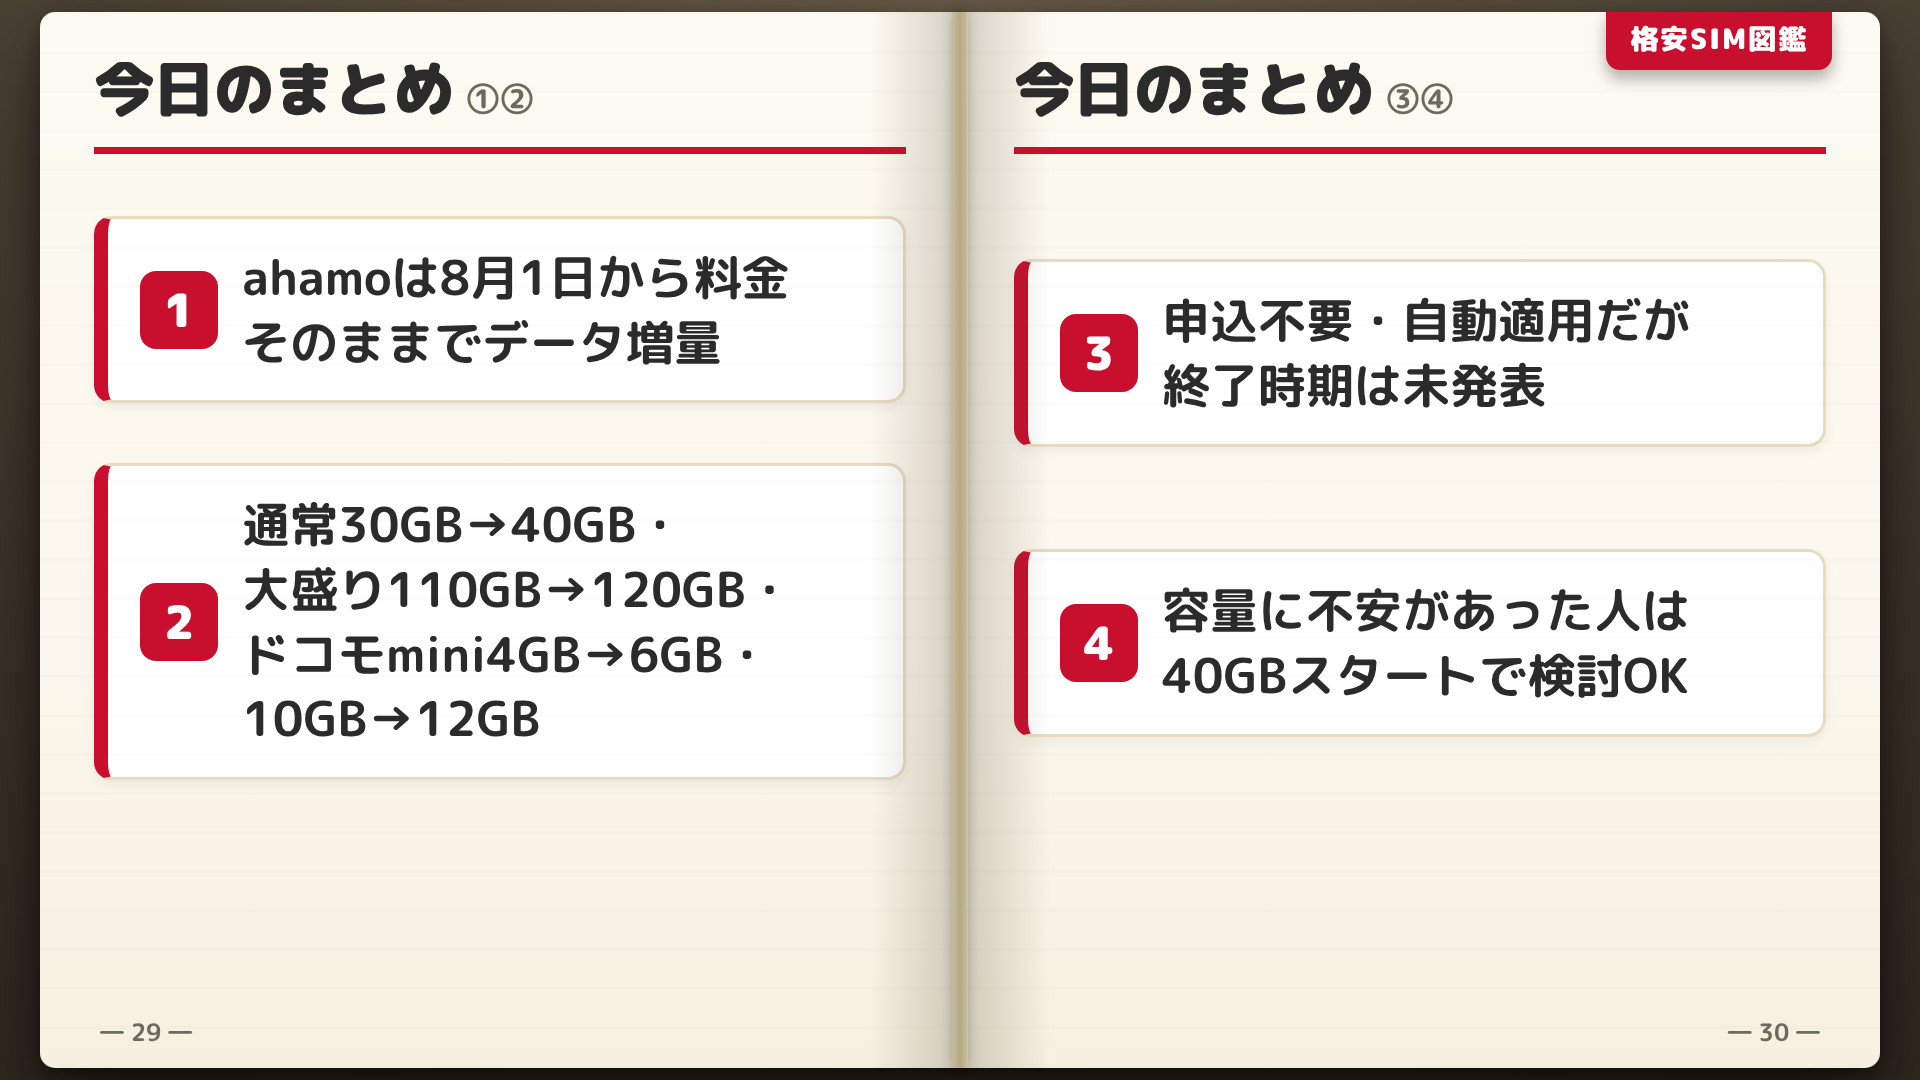
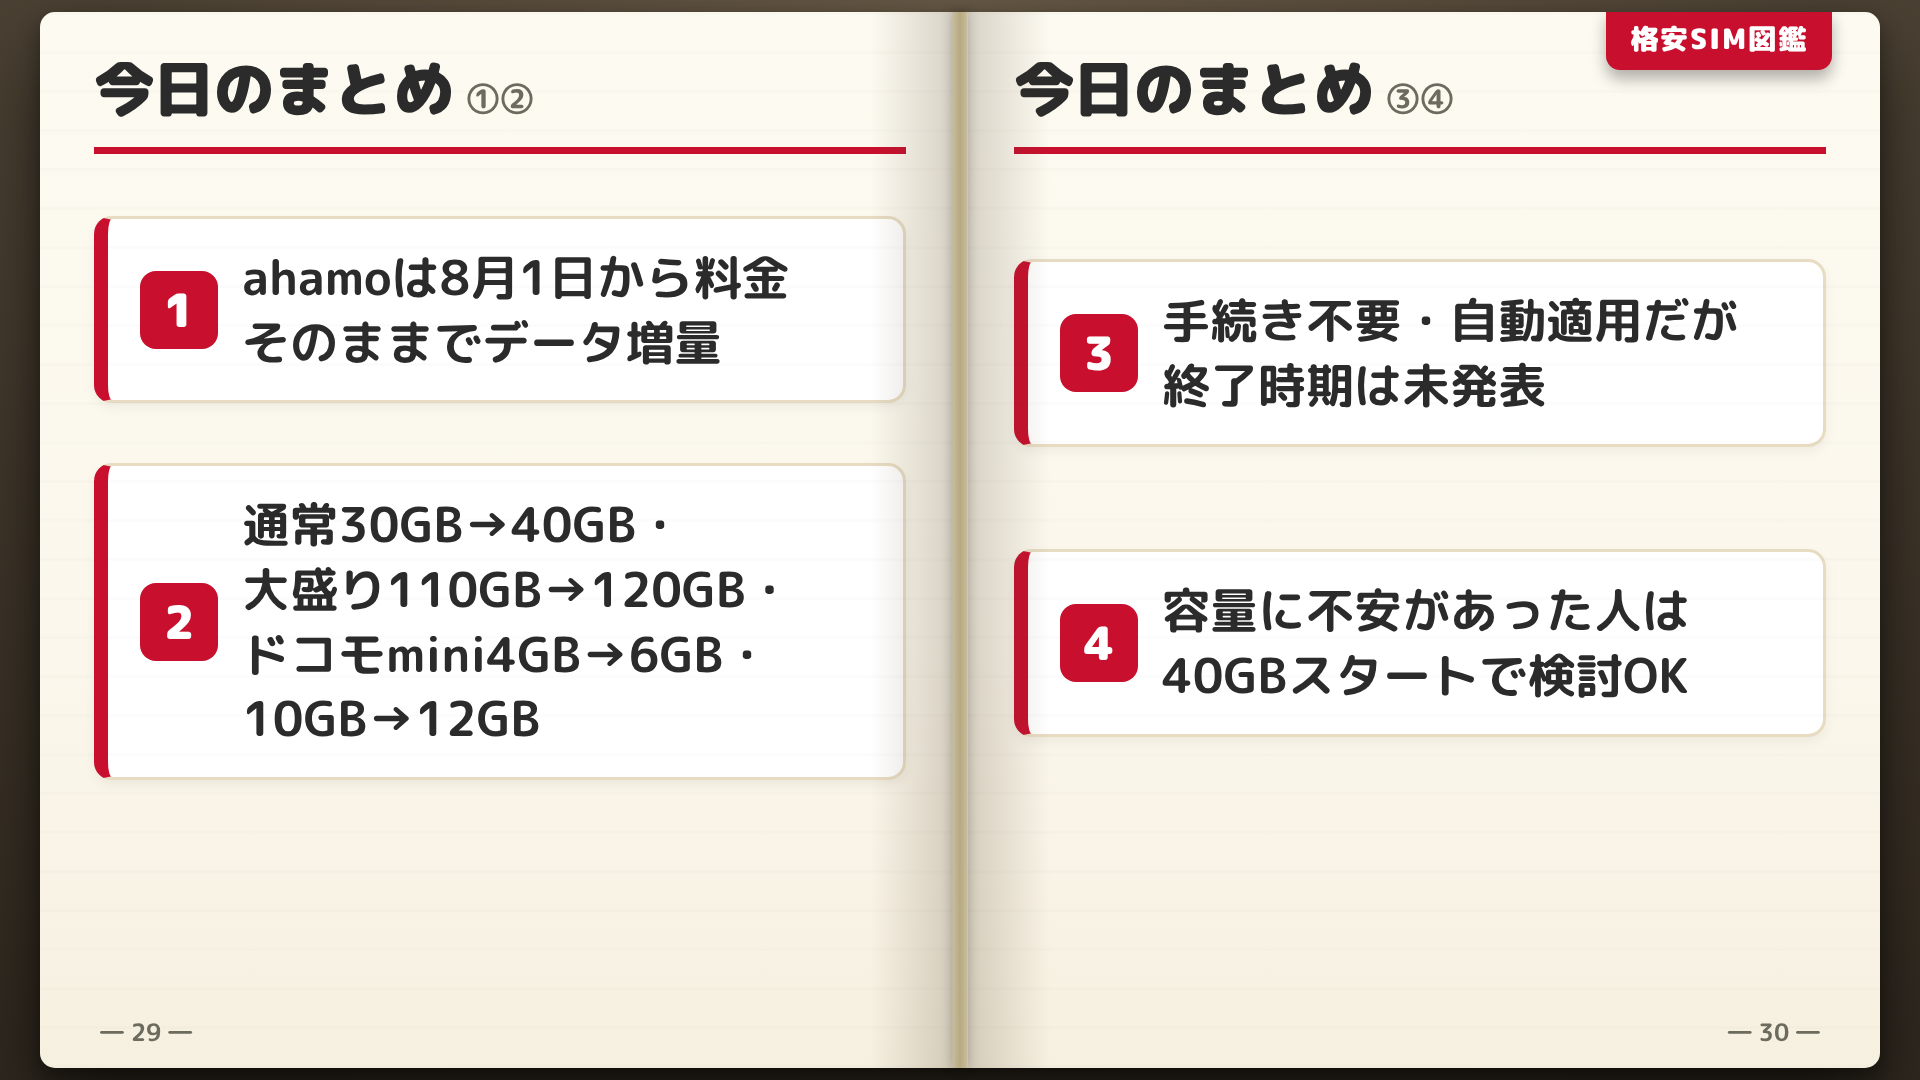
台本改修によるスライドの改修

Changed region(s): [[0.5938, 0.275, 0.9062, 0.3361]]

diff --git a/slides.html b/slides.html
@@ -67,7 +67,7 @@
   <div class="std-copy">
     <div class="std-kicker">月額料金はそのまま！</div>
     <h1><span>10GB</span> 増量</h1>
-    <div class="std-chips"><b>申込不要</b><b>自動適用</b><b>対象者は手続きなし</b></div>
+    <div class="std-chips"><b>手続き不要</b><b>自動適用</b><b>今の利用者はまるっと対象</b></div>
   </div>
   <img class="std-hero" style="margin-top: 100px; height: 700px;" src="public/images/irasutoya/bikkuri_me_tobideru_man.png" alt="速報に驚く人">
 </div>
@@ -76,7 +76,7 @@
   <div class="std-rays"></div><div class="std-ribbon">速報</div>
   <img class="std-brand" src="public/images/logo/Ahamo_logo.png" alt="ahamo">
   <div class="std-copy">
-    <div class="std-kicker">申込不要で8月から</div>
+    <div class="std-kicker">手続き不要で8月から</div>
     <h1><span>30GB</span><i class="fa-solid fa-arrow-right"></i><strong>40GB</strong></h1>
     <div class="std-subtitle">月額そのままで、何が変わった？</div>
   </div>
@@ -94,7 +94,7 @@
   <img class="std-hero" src="public/images/irasutoya/smartphone04_laugh.png" alt="スマートフォンを使う人">
 </div>
 <!-- Slide ID: 4 -->
-<div class="slide-container" style="--brand:#C8102E;--brand-deep:#9a0c23;--brand-soft:#fde3e7"><div class="book"><div class="spine"></div><div class="page left"><div class="page-head">格安SIM図鑑 もくじ</div><ol class="agenda"><li><span class="num">1</span>何がどれだけ増えたの？</li><li><span class="num">2</span>なぜ今このタイミングで増量？</li><li><span class="num">3</span>申込不要・自動適用の注意点</li><li><span class="num">4</span>他の格安SIMと比べてどう見える？</li></ol></div><div class="page right"><span class="index-tab">格安SIM図鑑</span><div class="page-head">この動画でわかること</div><ul class="benefits"><li><span class="check">✓</span>8月からahamoがどう変わったか分かる</li><li><span class="check">✓</span>注意点を知って安心して使い続けられる</li></ul><div class="emph agenda-answer"><span class="em">結論</span><br>今の利用者は何もしなくてOK！</div></div></div></div>
+<div class="slide-container" style="--brand:#C8102E;--brand-deep:#9a0c23;--brand-soft:#fde3e7"><div class="book"><div class="spine"></div><div class="page left"><div class="page-head">格安SIM図鑑 もくじ</div><ol class="agenda"><li><span class="num">1</span>何がどれだけ増えたの？</li><li><span class="num">2</span>なぜ今このタイミングで増量？</li><li><span class="num">3</span>手続き不要・自動適用の注意点</li><li><span class="num">4</span>他の格安SIMと比べてどう見える？</li></ol></div><div class="page right"><span class="index-tab">格安SIM図鑑</span><div class="page-head">この動画でわかること</div><ul class="benefits"><li><span class="check">✓</span>8月からahamoがどう変わったか分かる</li><li><span class="check">✓</span>注意点を知って安心して使い続けられる</li></ul><div class="emph agenda-answer"><span class="em">結論</span><br>今の利用者は何もしなくてOK！</div></div></div></div>
 <!-- Slide ID: 5-0 -->
 <div class="slide-container" style="--brand:#C8102E;--brand-deep:#9a0c23;--brand-soft:#fde3e7"><div class="book"><div class="spine"></div><div class="page left"><div class="divider"><div class="kicker">CHAPTER</div><div class="num">1</div><div class="seal">FILE No.01</div></div></div><div class="page right"><span class="index-tab">格安SIM図鑑</span><div class="page-body center"><div class="big-title chapter-title">何がどれだけ<br>増えたの？</div><div class="lead chapter-lead">料金据え置きで、容量アップ</div></div></div></div></div>
 <!-- Slide ID: 6 -->
@@ -118,7 +118,7 @@
 <!-- Slide ID: 11 -->
 <div class="slide-container price-note" style="--brand:#C8102E;--brand-deep:#9a0c23;--brand-soft:#fde3e7"><div class="book"><div class="spine"></div><div class="page left"><div class="page-head">背景にある価格競争</div><div class="page-body center"><div class="warn inference"><span class="ic"><i class="fa-solid fa-user-pen"></i></span><b>ここからはショウの推測</b><br>他社との価格競争も背景にあるのでは？</div><div class="lead competition-lead">30GBのままでは、近い価格帯で見劣りしていた</div><div class="bigicon competition-icon"><i class="fa-solid fa-scale-balanced"></i></div></div><span class="page-no">― 9 ―</span></div><div class="page right"><span class="index-tab">格安SIM図鑑</span><div class="page-head">近い価格帯の容量</div><div class="page-body center"><table class="sheet competition-table"><thead><tr><th>サービス</th><th>容量</th><th>月額</th></tr></thead><tbody><tr><td>日本通信SIM 合理的50GBプラン</td><td>50GB</td><td>月額2,178円</td></tr><tr><td>IIJmio（アイアイジェイミオ） ギガプラン</td><td>35GB</td><td>月額2,400円</td></tr><tr><td>mineo マイピタ</td><td>50GB</td><td>月額2,948円</td></tr><tr><td>ahamo（増量前）</td><td>30GB</td><td>月額2,970円</td></tr></tbody></table></div><span class="page-no">― 10 ―</span></div></div></div>
 <!-- Slide ID: 12-0 -->
-<div class="slide-container" style="--brand:#C8102E;--brand-deep:#9a0c23;--brand-soft:#fde3e7"><div class="book"><div class="spine"></div><div class="page left"><div class="divider"><div class="kicker">CHAPTER</div><div class="num">3</div><div class="seal">FILE No.03</div></div></div><div class="page right"><span class="index-tab">格安SIM図鑑</span><div class="page-body center"><div class="big-title chapter-title">申込不要・<br>自動適用の注意点</div><div class="lead chapter-lead">終了時期は、まだ未発表</div></div></div></div></div>
+<div class="slide-container" style="--brand:#C8102E;--brand-deep:#9a0c23;--brand-soft:#fde3e7"><div class="book"><div class="spine"></div><div class="page left"><div class="divider"><div class="kicker">CHAPTER</div><div class="num">3</div><div class="seal">FILE No.03</div></div></div><div class="page right"><span class="index-tab">格安SIM図鑑</span><div class="page-body center"><div class="big-title chapter-title">手続き不要・<br>自動適用の注意点</div><div class="lead chapter-lead">終了時期は、まだ未発表</div></div></div></div></div>
 <!-- Slide ID: 13 -->
 <div class="slide-container" style="--brand:#C8102E;--brand-deep:#9a0c23;--brand-soft:#fde3e7"><div class="book"><div class="spine"></div><div class="page left"><div class="page-head">注意点</div><div class="page-body center"><div class="campaign-name">正式名称</div><div class="lead campaign-title">正式名称は「データ増量おためしキャンペーン」</div><div class="warn end-date"><span class="ic"><i class="fa-solid fa-calendar-xmark"></i></span><span>終了時期は<strong>未発表</strong></span></div></div><span class="page-no">― 11 ―</span></div><div class="page right"><span class="index-tab">格安SIM図鑑</span><div class="page-head">今後の2つの可能性</div><div class="page-body center"><ul class="rows"><li><span class="ic"><i class="fa-solid fa-rotate-left"></i></span><div class="tx">いつか元の30GB・110GBに戻る可能性</div></li><li><span class="ic"><i class="fa-solid fa-arrow-trend-up"></i></span><div class="tx">このまま40GB・120GBが定着する可能性</div></li></ul><div class="emph both-possible">どちらも<span class="em">あり得る</span></div></div><span class="page-no">― 12 ―</span></div></div></div>
 <!-- Slide ID: 14 -->
@@ -131,7 +131,7 @@
       <div class="plan-chart"><img src="public/images/charts/ahamo.png" alt="ahamoの評価チャート"></div>
     <span class="page-no">― 15 ―</span></div><div class="page right plan-page"><span class="index-tab">格安SIM図鑑</span><div class="page-head">ahamoの料金プラン</div><div class="page-body center">
       <table class="sheet plan-sheet"><thead><tr><th>プラン</th><th>データ容量</th><th>月額料金</th></tr></thead><tbody><tr><td>ahamo</td><td>40GB</td><td class="em">2,970円</td></tr><tr><td>ahamo大盛り</td><td>120GB</td><td class="em">4,950円</td></tr></tbody></table>
-      <div class="note plan-note">容量は2026年8月1日の増量後（申込不要で自動適用）<br>どちらも5分以内の国内通話が無料で込み</div>
+      <div class="note plan-note">容量は2026年8月1日の増量後（手続き不要で自動適用）<br>どちらも5分以内の国内通話が無料で込み</div>
     </div><span class="page-no">― 16 ―</span></div></div></div>
 <!-- Slide ID: 16 -->
 <div class="slide-container" style="--brand:#C8102E;--brand-deep:#9a0c23;--brand-soft:#fde3e7"><div class="book"><div class="spine"></div><div class="page left eval-page">
@@ -199,7 +199,7 @@
 <!-- Slide ID: 24-0 -->
 <div class="slide-container" style="--brand:#C8102E;--brand-deep:#9a0c23;--brand-soft:#fde3e7"><div class="book"><div class="spine"></div><div class="page left"><div class="divider"><div class="kicker">CHAPTER</div><div class="num">5</div><div class="seal">FILE No.05</div></div></div><div class="page right"><span class="index-tab">格安SIM図鑑</span><div class="page-body center"><div class="big-title chapter-title">まとめ</div><div class="lead chapter-lead">増量のポイントを最終確認</div></div></div></div></div>
 <!-- Slide ID: 25 -->
-<div class="slide-container" style="--brand:#C8102E;--brand-deep:#9a0c23;--brand-soft:#fde3e7"><div class="book"><div class="spine"></div><div class="page left"><div class="page-head">今日のまとめ<small>①②</small></div><div class="page-body"><ul class="rows"><li><span class="badge">1</span><div class="tx">ahamoは8月1日から料金そのままでデータ増量</div></li><li><span class="badge">2</span><div class="tx">通常30GB→40GB・大盛り110GB→120GB・ドコモmini4GB→6GB・10GB→12GB</div></li></ul></div><span class="page-no">― 29 ―</span></div><div class="page right"><span class="index-tab">格安SIM図鑑</span><div class="page-head">今日のまとめ<small>③④</small></div><div class="page-body"><ul class="rows"><li><span class="badge">3</span><div class="tx">申込不要・自動適用だが終了時期は未発表</div></li><li><span class="badge">4</span><div class="tx">容量に不安があった人は40GBスタートで検討OK</div></li></ul></div><span class="page-no">― 30 ―</span></div></div></div>
+<div class="slide-container" style="--brand:#C8102E;--brand-deep:#9a0c23;--brand-soft:#fde3e7"><div class="book"><div class="spine"></div><div class="page left"><div class="page-head">今日のまとめ<small>①②</small></div><div class="page-body"><ul class="rows"><li><span class="badge">1</span><div class="tx">ahamoは8月1日から料金そのままでデータ増量</div></li><li><span class="badge">2</span><div class="tx">通常30GB→40GB・大盛り110GB→120GB・ドコモmini4GB→6GB・10GB→12GB</div></li></ul></div><span class="page-no">― 29 ―</span></div><div class="page right"><span class="index-tab">格安SIM図鑑</span><div class="page-head">今日のまとめ<small>③④</small></div><div class="page-body"><ul class="rows"><li><span class="badge">3</span><div class="tx">手続き不要・自動適用だが終了時期は未発表</div></li><li><span class="badge">4</span><div class="tx">容量に不安があった人は40GBスタートで検討OK</div></li></ul></div><span class="page-no">― 30 ―</span></div></div></div>
 <!-- Slide ID: 26 -->
 <div class="slide-container" style="--brand:#C8102E;--brand-deep:#9a0c23;--brand-soft:#fde3e7"><div class="book"><div class="spine"></div><div class="page left"><div class="page-body center">
       <img class="brand-logo" src="public/images/logo/Ahamo_logo.png" alt="ahamo">
